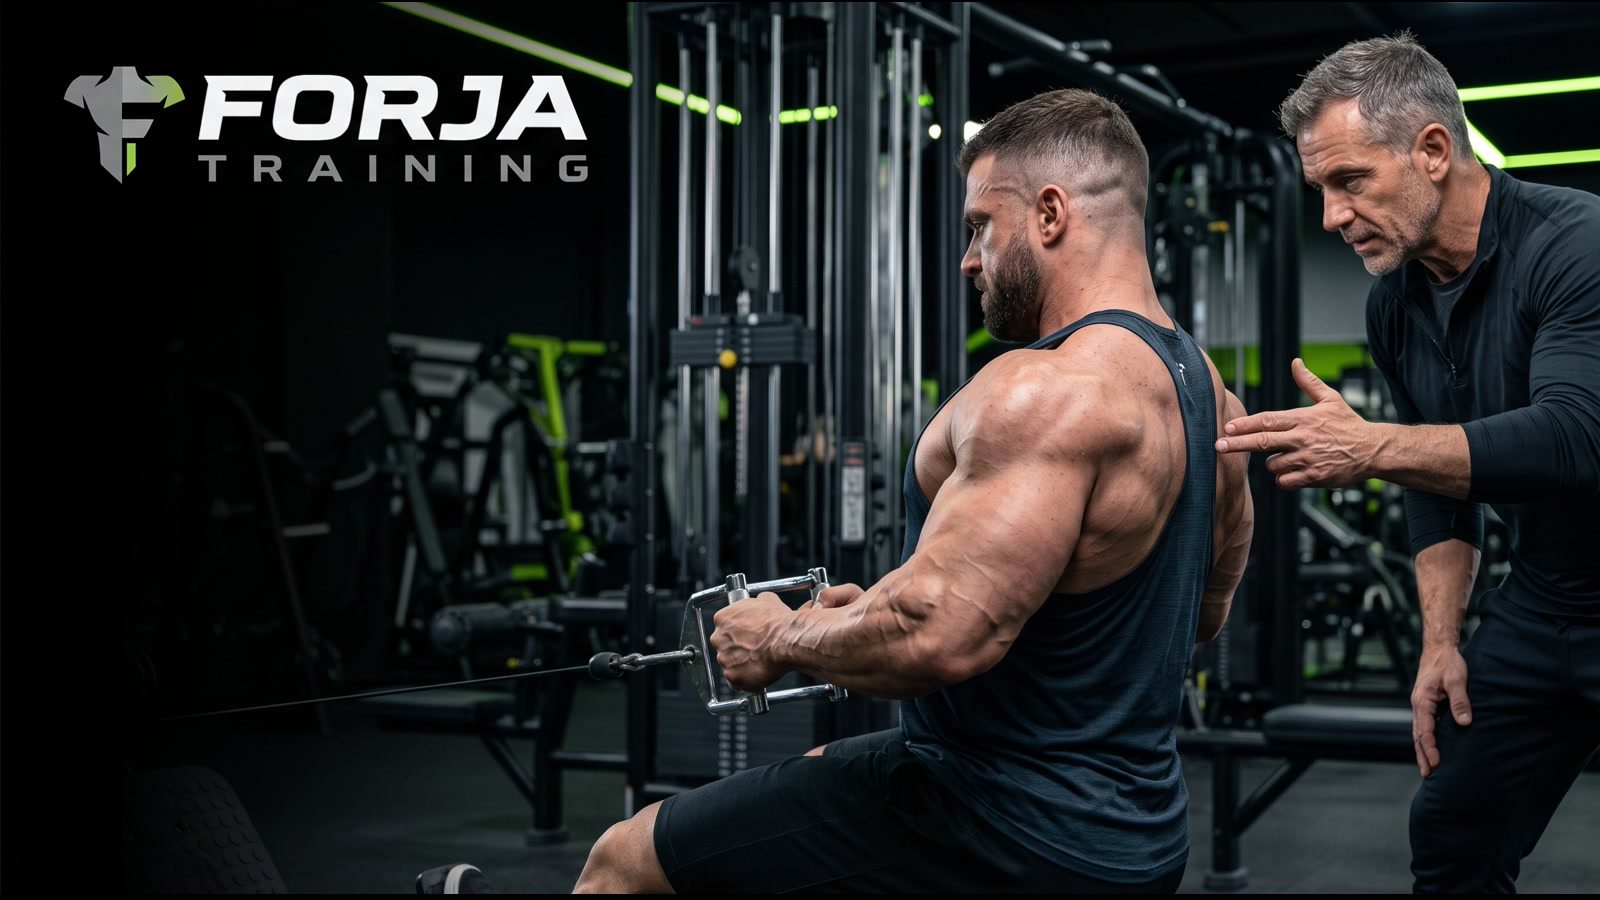
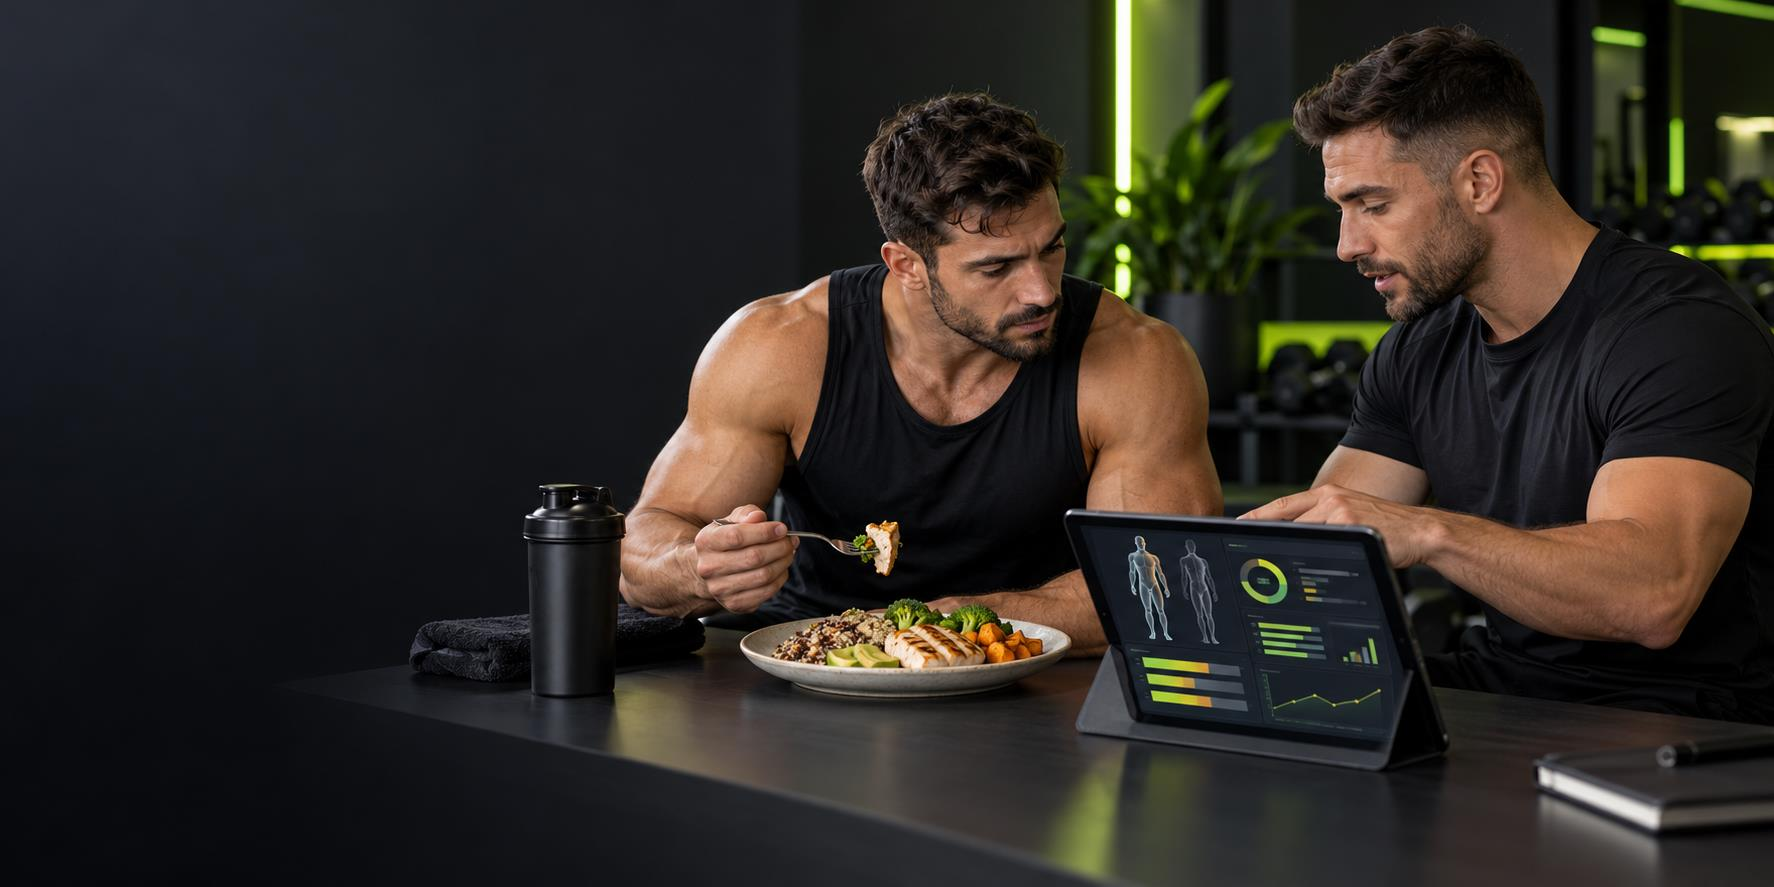
Ajustar portales e imagenes de nutricion

diff --git a/Cliente/perfil.html b/Cliente/perfil.html
@@ -10,7 +10,7 @@
 <body class="dashboard-body">
 <div class="app-container">
 <aside class="sidebar">
-<div class="brand"><div><h2>FORJA TRAINING</h2><span>Client Portal</span></div></div>
+<div class="brand"><div><h2>FORJA TRAINING</h2></div></div>
 <nav>
 <a href="dashboard.html">Dashboard</a>
 <a class="active" href="perfil.html">Perfil</a>
@@ -31,7 +31,7 @@
 <h2 data-client-field="nombre">Carlos Andrade</h2>
 <p>Objetivo actual: <span data-client-field="objetivo">fuerza</span>. Entrenador asignado: <span data-client-field="entrenador">Andrés Vega</span>.</p>
 </div>
-<img class="profile-clickable" src="../Assets/img/client-profile.jpg" alt="Tu foto de perfil. Haz clic para cambiarla" data-profile-image="client" data-profile-trigger="client">
+<img class="profile-clickable profile-hero-image" src="../Assets/img/client-profile.jpg" alt="Tu foto de perfil. Haz clic para cambiarla" data-profile-image="client" data-profile-trigger="client">
 </section>
 <section class="kpi-grid">
 <div class="kpi-card"><h3>Edad</h3><strong data-client-field="edad">35</strong></div>

diff --git a/Cliente/alimentacion.html b/Cliente/alimentacion.html
@@ -10,7 +10,7 @@
 <body class="dashboard-body">
 <div class="app-container">
 <aside class="sidebar">
-<div class="brand"><div><h2>FORJA TRAINING</h2><span>Client Portal</span></div></div>
+<div class="brand"><div><h2>FORJA TRAINING</h2></div></div>
 <nav>
 <a href="dashboard.html">Dashboard</a>
 <a href="perfil.html">Perfil</a>
@@ -31,7 +31,7 @@
 <h2>Nutrición práctica para entrenar mejor</h2>
 <p>Organiza comidas, hidratación y suplementación para sostener energía y recuperación.</p>
 </div>
-<img src="../Assets/img/client-nutrition.jpg" alt="Entrenador masculino acompañando a un cliente masculino durante una sesión de entrenamiento">
+<img src="../Assets/img/client-nutrition.jpg" alt="Atleta masculino comiendo y revisando sus métricas nutricionales">
 </section>
 <section class="dashboard-panel">
 <h2>Plan del día</h2>

diff --git a/Entrenador/clientes.html b/Entrenador/clientes.html
@@ -94,7 +94,7 @@ Gestión completa de alumnos
 <h2>Seguimiento claro para cada alumno</h2>
 <p>Visualiza estados, objetivos y próximos pasos con una experiencia más cuidada para la gestión diaria.</p>
 </div>
-<img src="../Assets/img/trainer-clients.jpg" alt="Entrenador masculino supervisando a un cliente masculino en entrenamiento de fuerza">
+<img class="trainer-clients-hero" src="../Assets/img/trainer-clients.jpg" alt="Entrenador masculino supervisando a un cliente masculino en entrenamiento de fuerza">
 </section>
 
 

diff --git a/Assets/css/style.css b/Assets/css/style.css
@@ -1016,6 +1016,18 @@ button{
     cursor:pointer;
 }
 
+/* Estas fotos llevan el logotipo integrado; se conserva completo en sus heroes. */
+.page-hero img.profile-hero-image,
+.page-hero img.trainer-clients-hero{
+    object-position:center center;
+    object-fit:contain;
+    background:#050706;
+}
+
+.topbar .profile-clickable{
+    object-position:left top;
+}
+
 .profile-clickable:hover{
     filter:brightness(1.08);
     outline:2px solid rgba(215,249,138,.55);

diff --git a/Cliente/dashboard.html b/Cliente/dashboard.html
@@ -10,7 +10,7 @@
 <body class="dashboard-body">
 <div class="app-container">
 <aside class="sidebar">
-<div class="brand"><div><h2>FORJA TRAINING</h2><span>Client Portal</span></div></div>
+<div class="brand"><div><h2>FORJA TRAINING</h2></div></div>
 <nav>
 <a class="active" href="dashboard.html">Dashboard</a>
 <a href="perfil.html">Perfil</a>

diff --git a/Cliente/progreso.html b/Cliente/progreso.html
@@ -10,7 +10,7 @@
 <body class="dashboard-body">
 <div class="app-container">
 <aside class="sidebar">
-<div class="brand"><div><h2>FORJA TRAINING</h2><span>Client Portal</span></div></div>
+<div class="brand"><div><h2>FORJA TRAINING</h2></div></div>
 <nav>
 <a href="dashboard.html">Dashboard</a>
 <a href="perfil.html">Perfil</a>

diff --git a/Cliente/rutina.html b/Cliente/rutina.html
@@ -10,7 +10,7 @@
 <body class="dashboard-body">
 <div class="app-container">
 <aside class="sidebar">
-<div class="brand"><div><h2>FORJA TRAINING</h2><span>Client Portal</span></div></div>
+<div class="brand"><div><h2>FORJA TRAINING</h2></div></div>
 <nav>
 <a href="dashboard.html">Dashboard</a>
 <a href="perfil.html">Perfil</a>
